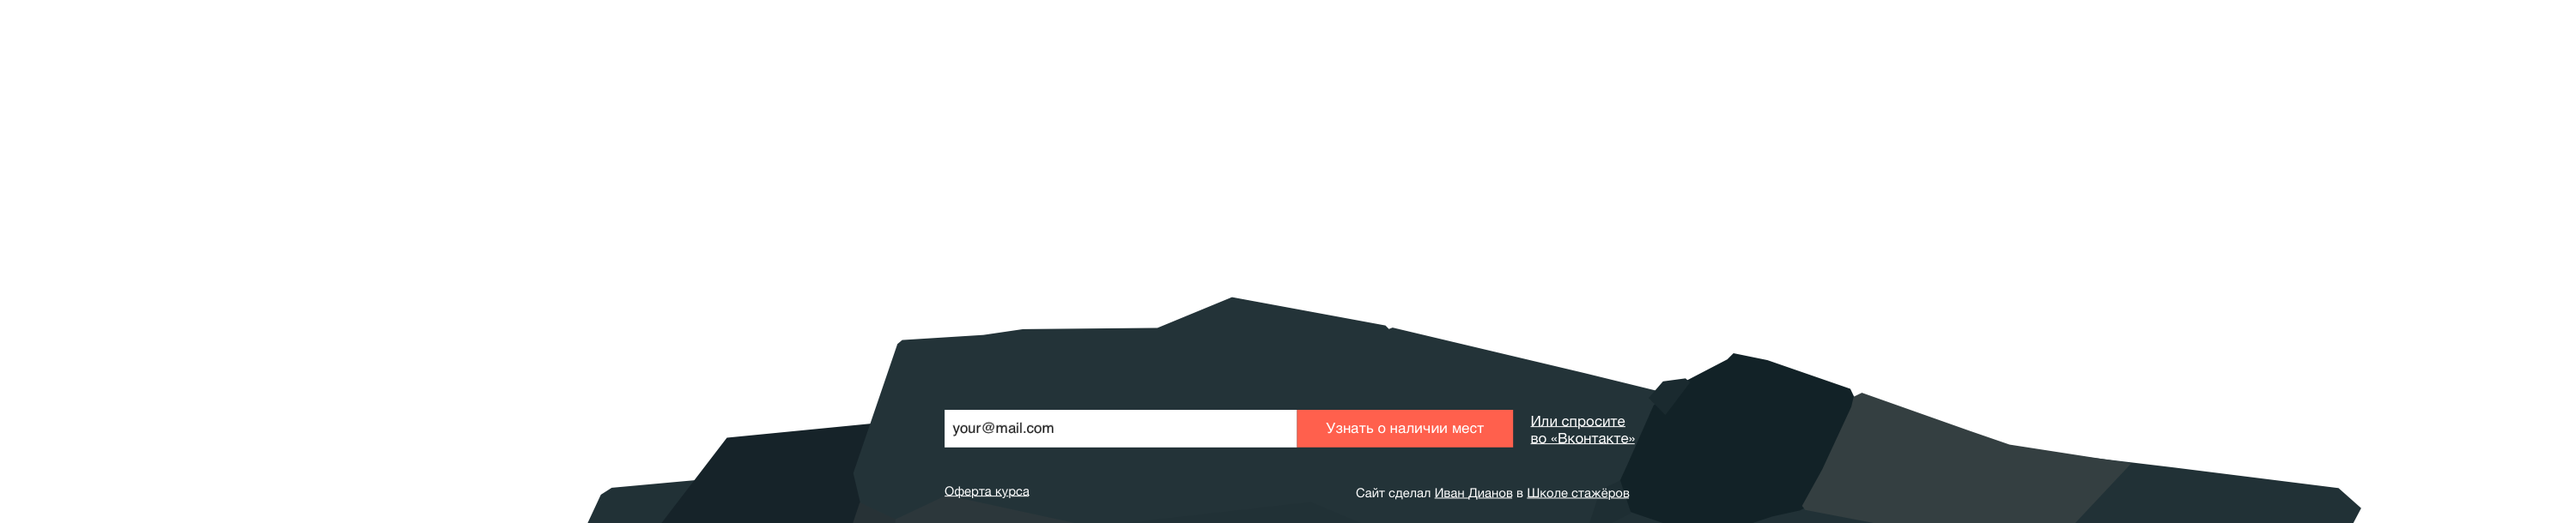
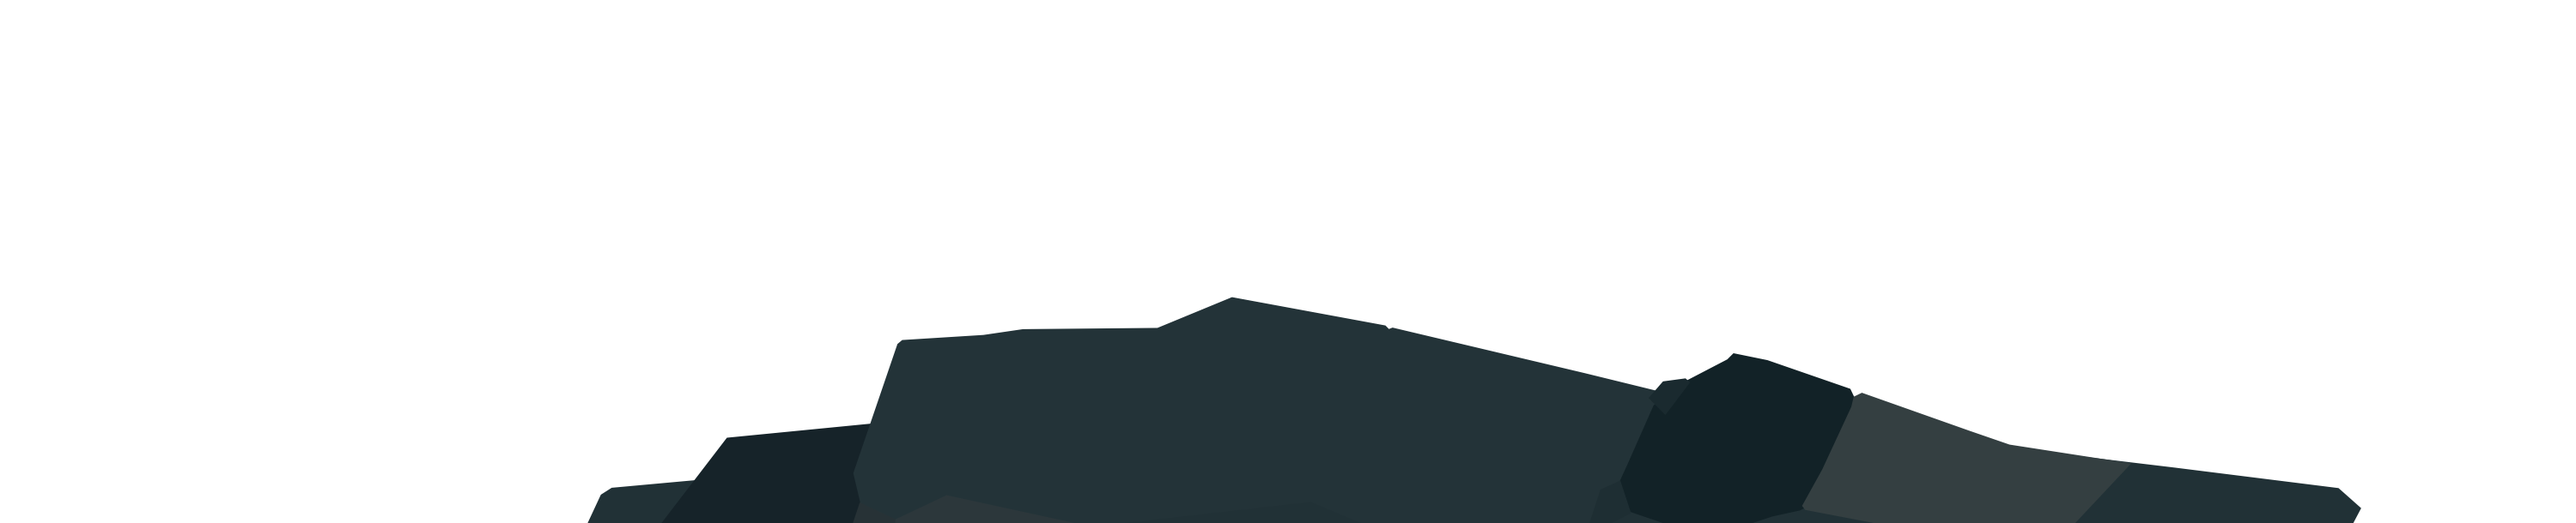
made footer and form.... almost. It doesn't let click anywhere else.

Changed region(s): [[0.341, 0.7787, 0.651, 0.8721], [0.527, 0.9344, 0.651, 0.9656], [0.372, 0.9344, 0.403, 0.9656]]

diff --git a/_sass/includes/course/_enroll-form.scss b/_sass/includes/course/_enroll-form.scss
@@ -1,2 +1,54 @@
 .include-enroll-form{
+  bottom: 0;
+  position: absolute;
+  width: 100%;
+  .content{
+    @include container;
+  }
+  img.background{
+    bottom: 0;
+    left: 50%;
+    position: absolute;
+    transform:  translate3d(-50%, 0, 0);
+    width: 3000px;
+    z-index: -1;
+  }
+  form{
+    @include span(5);
+    display: inline-block;
+    background: yellow;
+    $w: 40%;
+    input, button{
+      $h: 44px;
+      -webkit-appearance: none;
+      border: none;
+      box-sizing: border-box;
+      display: inline-block;
+      font-size: $font-size-base;
+      height: $h;
+      line-height: $h;
+      padding: 0;
+      vertical-align: top;
+    }
+    input{
+      padding: 0 10px;
+      width: 100% - $w;
+    }
+    button{
+      /*float: right;*/
+      background: $color-accent;
+      color: white;
+      margin-right: -100px;
+      padding: 0 30px;
+      width: $w;
+    }
+  }
+  .vk{
+    @include span(1 last);
+    @extend .small;
+    display: inline-block;
+    a{
+      @include underlined-link(white);
+    }
+  }
 }

diff --git a/_sass/layouts/_course.scss b/_sass/layouts/_course.scss
@@ -1,10 +1,9 @@
 .layout-course{
   .parallax-container{
     bottom: 0;
-    left: 100px;
-    pointer-events: none; //TODO uncomment
+    left: 0;
     position: fixed;
-    right: 100px;
+    right: 0;
     top: 0;
     &.parallax-container-back{
       z-index: -1;
@@ -15,6 +14,7 @@
       /*pointer-event: none;*/
       height: auto;
       left: 50%;
+      pointer-events: none; //TODO uncomment
       position: absolute;
       top: 0;
       transform: translate3d(-50%,0,0);
@@ -27,12 +27,15 @@
       height: 100%;
     }
     .footer-stone{
+      /*width: $parallax-width;*/
+      /*width: 3000px;*/
       bottom: 0px;
-      height: 610px;
+      /*height: 610px;*/
+      height: 266px;
+      pointer-events: auto;
       top: auto;
       transform:  translate3d(-50%, 100%, 0); // hiding on load
-      /*width: $parallax-width;*/
-      width: 3000px;
+      width: 100%;
     }
   }
   article{

diff --git a/_sass/base/_typo.scss b/_sass/base/_typo.scss
@@ -65,17 +65,13 @@ strong{
   }
 }
 a{
-  border-bottom: 1px solid rgba( $color-link, .3 );
-  color: $color-link;
-  text-decoration: none;
+  @include underlined-link($color-link);
   &:visited{
     $color-link-visited: darken($color-link, 10);
-    border-bottom: 1px solid rgba( $color-link-visited, .3 );
-    color: $color-link-visited;
+    @include underlined-link($color-link-visited);
   }
   &:active, &:hover{
     $color-link-active: lighten($color-link, 20);
-    border-bottom: 1px solid rgba( $color-link-active, .3 );
-    color: $color-link-active;
+    @include underlined-link($color-link-active);
   }
 }

diff --git a/_includes/course/enroll-form.html b/_includes/course/enroll-form.html
@@ -1,7 +1,13 @@
 <div class="include-enroll-form">
-  your@mail.com
-  Узнать о наличии мест
+  <img class="background" src="/img/course/footer-stone.png">
   
-  Или спросите
-  во «Вконтакте»
+  <div class="content">
+    <form action="https://formspree.io/{{ site.email }}" method="POST">
+      <input type="email" placeholder="your@mail.ru" name="_replyto"><button>Узнать о наличии мест</button>
+    </form>
+    
+    <div class="vk">
+      <a href="{{ site.vk }}">Или спросите во&nbsp;«Вконтакте»</a>
+    </div>
+  </div>
 </div>

diff --git a/_includes/footer.html b/_includes/footer.html
@@ -1,3 +1,3 @@
-Оферта курса
+[Оферта курса](https://docs.google.com/document/d/1QNaRC7jc19YQgt0hf2Vv23sGfCbJHYp9HMBiP138Sg0/edit)
 
-Сайт сделал Иван Дианов в Школе стажёров
+Сайт сделал [Иван Дианов](http://dianov.org/) в [Школе стажёров](http://artgorbunov.ru/school/)

diff --git a/_layouts/course.html b/_layouts/course.html
@@ -21,7 +21,7 @@ layout: default
   <div class="parallax-container parallax-container-front">
     <div class="parallax footer-stone">
       {% include course/enroll-form.html %}
-      <img src="/img/course/footer-stone.png">
+      <!--<img src="/img/course/footer-stone.png">-->
     </div>
   </div>
 

diff --git a/_sass/helper/_mixins.scss b/_sass/helper/_mixins.scss
@@ -6,6 +6,12 @@
   }
 }
 
+@mixin underlined-link($color){
+  border-bottom: 1px solid rgba( $color, .3 );
+  color: $color;
+  text-decoration: none;
+}
+
 @mixin clip-path($value){
   -webkit-clip-path: $value;
   clip-path: $value;

diff --git a/css/scrollr.scss b/css/scrollr.scss
@@ -100,7 +100,7 @@
   -skrollr-animation-name: footer-stone;
 }
 @-skrollr-keyframes footer-stone{
-  skrollr-610-end{
+  skrollr-266-end{
     transform: translate3d(-50%,100%,0);
   }
   skrollr-end{
